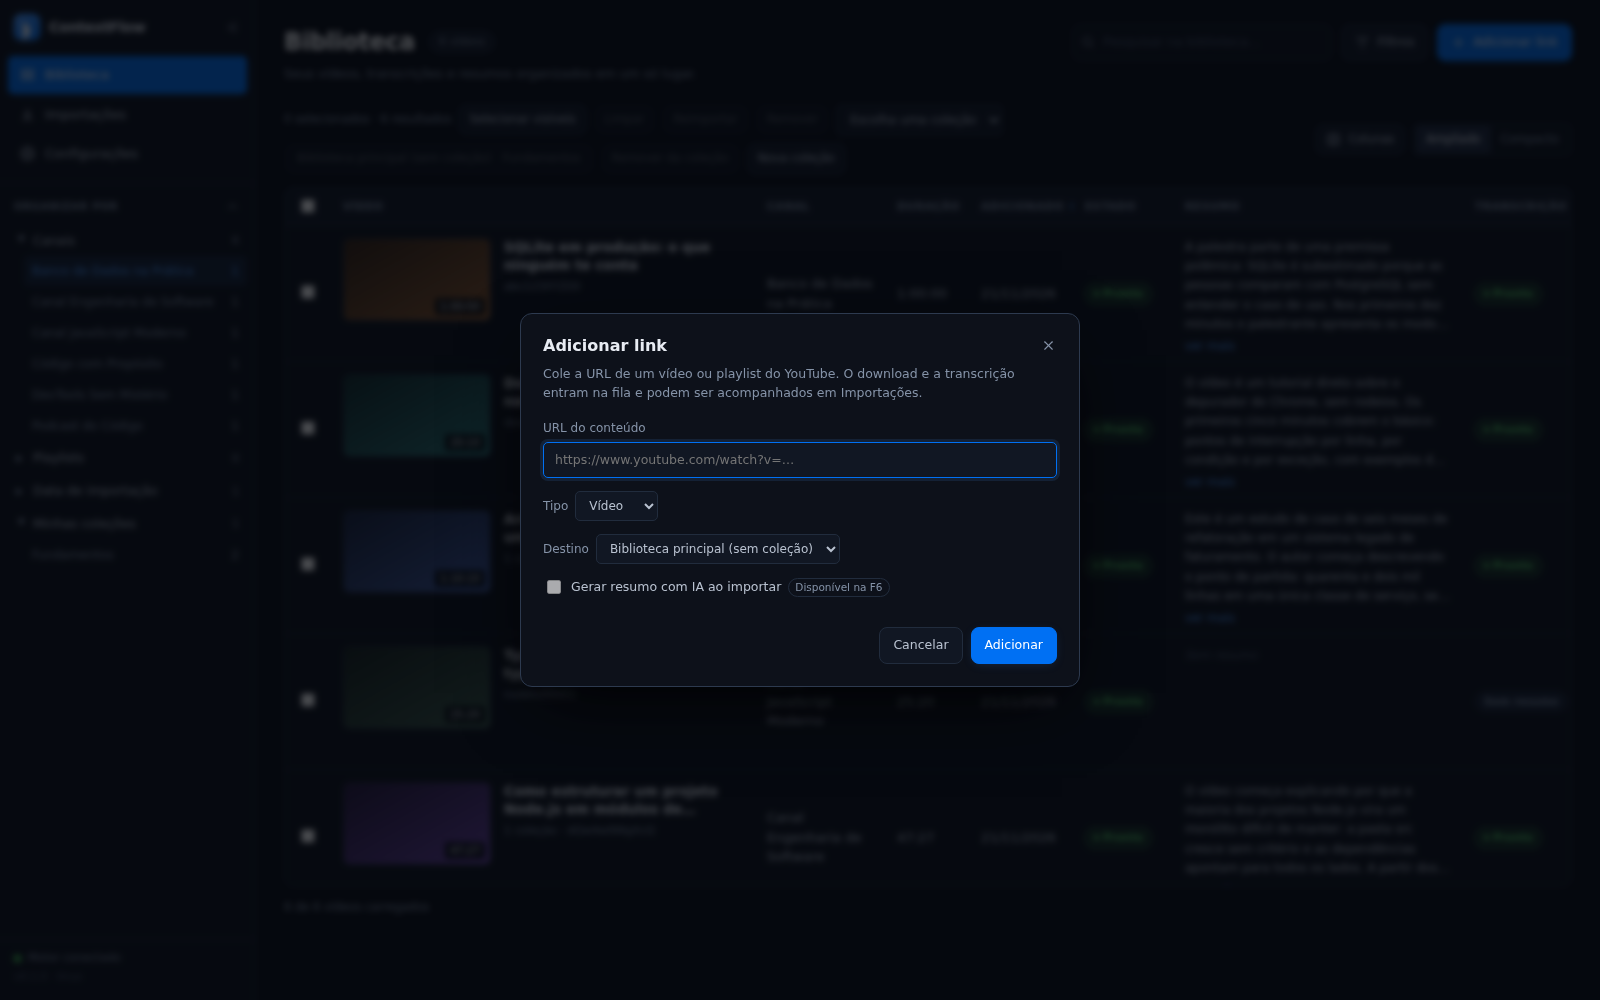
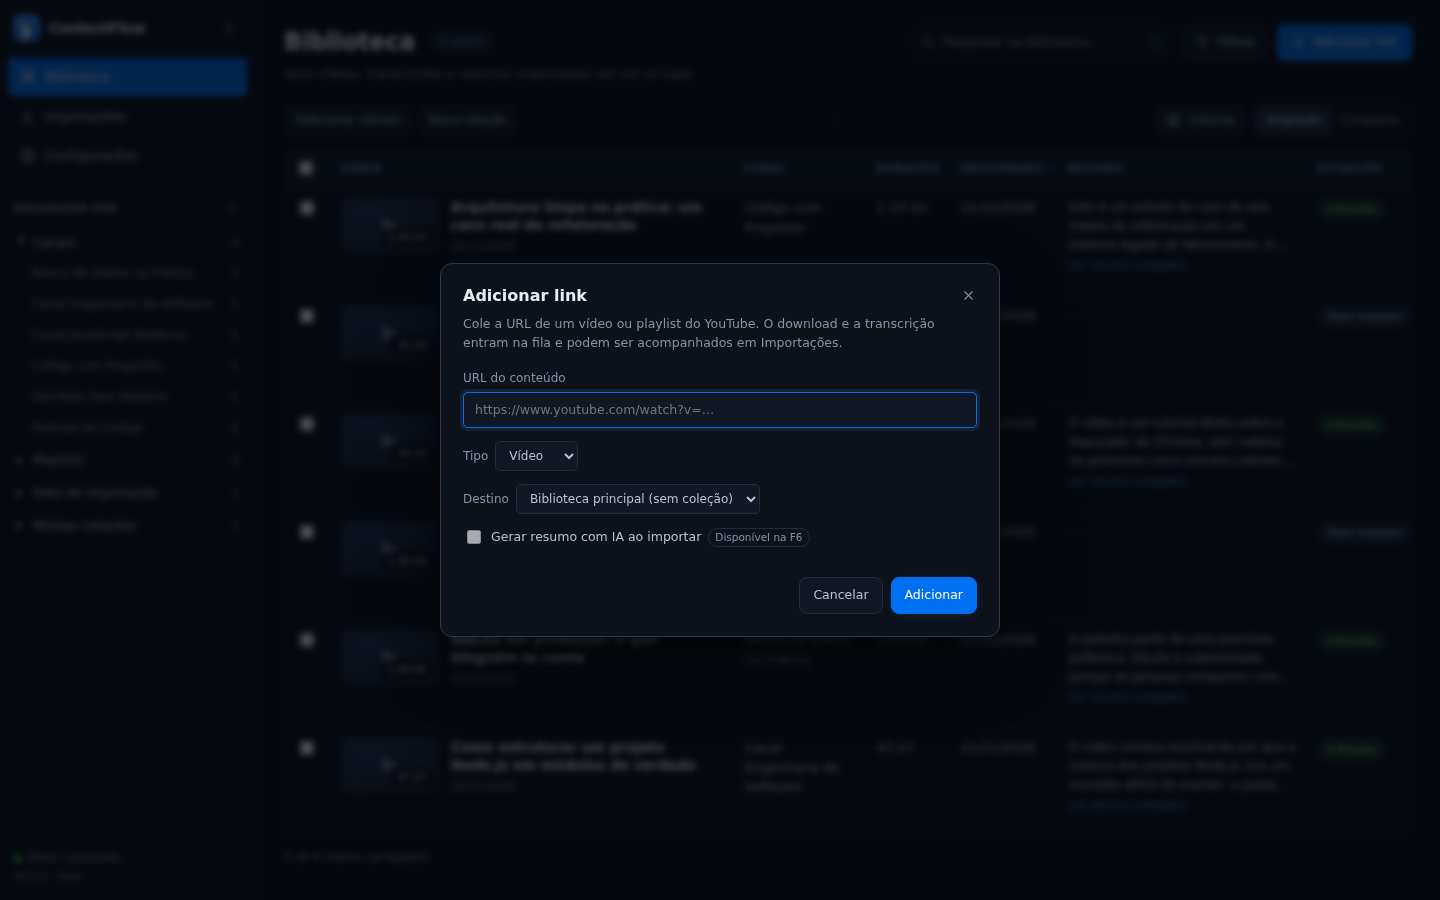
Atualiza a evidência visual para o estado após a revisão
As capturas anteriores mostravam os defeitos corrigidos em c5fa1a9 (selo
duplicado, colunas desencontradas, última coluna cortada). Foram refeitas no
navegador real, com Playwright, e o LEIA-ME traz os números medidos agora.

diff --git a/docs/mockups/evidencia/LEIA-ME.md b/docs/mockups/evidencia/LEIA-ME.md
@@ -1,8 +1,12 @@
 # Evidência visual — F5-UI + F5-QA
 
-Capturas do navegador real (Chrome, 1600×1000 @ DPR 1, ou 390×844 no mobile)
-contra uma base local com 5.000 vídeos. Não são montagens: é a tela rodando,
-controlada pela Agent Browser via CDP.
+Capturas do navegador real (Chrome headless, 1440×900, ou 390×844 no mobile)
+contra uma base local com 6 vídeos e 4 resumos. Não são montagens: é a tela
+rodando, controlada por Playwright.
+
+Estas capturas foram refeitas em 21/11/2026, depois da revisão de layout e uso:
+as anteriores ainda mostravam os defeitos corrigidos em `c5fa1a9` (selo
+duplicado, colunas desencontradas, última coluna cortada).
 
 | Arquivo | O que mostra |
 |---|---|
@@ -14,7 +18,7 @@ controlada pela Agent Browser via CDP.
 | `importacoes.png` | Importações, com estado vazio orientando o próximo passo |
 | `configuracoes.png` | Configurações: valores reais e "Não definido" em itálico |
 | `modo-compacto.png` | Densidade compacta (linhas de 64 px) |
-| `mobile-biblioteca.png` | 390 px: biblioteca sem rolagem horizontal |
+| `mobile-biblioteca.png` | 390 px: conteúdo na largura toda, tabela rola na horizontal |
 | `mobile-gaveta.png` | 390 px: gaveta de navegação aberta |
 
 ## O que conferir na homologação
@@ -22,12 +26,14 @@ controlada pela Agent Browser via CDP.
 Comparar com `docs/mockups/biblioteca-lista.png` e `biblioteca-planilha.png`:
 
 1. **Densidade** — a planilha começa logo abaixo de uma única linha de ações,
-   e seis linhas cabem no primeiro quadro (antes eram cinco, com a barra de
-   lote quebrada em duas linhas).
+   e as seis linhas cabem no primeiro quadro. A barra tem 33 px sem seleção
+   (era 68 px, com cinco botões desabilitados).
 2. **Barra recolhida** — o botão de alternância está visível no topo, logo
    abaixo do símbolo, e leva de volta ao estado expandido. (Este era o defeito
    relatado: o botão ficava 17 px fora do clipe.)
-3. **Colunas** — nenhuma espremida; títulos legíveis em duas linhas.
+3. **Colunas** — nenhuma espremida nem cortada; títulos legíveis em duas
+   linhas e o texto de cada célula alinhado pela primeira linha (desvio medido
+   de 5 px, era 33 px).
 4. **Resumo** — o recorte termina sem cortar palavra no meio, e
    "ver resumo completo" aparece quando há mais texto.
 5. **Altura fixa** — abrir o painel não muda a altura da linha (108 px no
@@ -39,4 +45,5 @@ Comparar com `docs/mockups/biblioteca-lista.png` e `biblioteca-planilha.png`:
 
 - 5.000 vídeos: 24–28 linhas no DOM, heap 1–3 MB, 20 saltos de rolagem em 3,2 s.
 - Altura de linha declarada == real: 108 px e 64 px.
+- Transbordo horizontal: 0 px em 1440, 1280, 980 e 420 px.
 - `npm test` 183/183 · `npm run test:e2e` 62/62.
